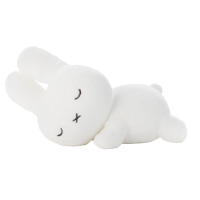
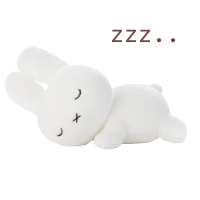
saving progress: main "journal" layout applied, forms css

Changed region(s): [[0.54, 0.12, 0.75, 0.21], [0.84, 0.18, 0.9, 0.21], [0.78, 0.18, 0.81, 0.21]]

diff --git a/index.html b/index.html
@@ -24,16 +24,17 @@
   <!-- blog content --> 
     <main>
     <div class="blog-posts">
-        <h2>blog posts</h2>
+        <h2>ramblings</h2>
         <section>
             <article class="post">
-                <img src="/images/image2.jpg" alt="a cartoon cat and bear in cold weather attire, eating dumplings">
+                <img src="/images/image2.jpg" alt="a cartoon cat and bear in cold weather attire, eating dumplings" class="right-floating">
                 <h3>it's getting colder!</h3>
                 <p>published: </<time datetime="2024-10-10">10/10/24</time></p> 
                 <p><address class="author"><a rel="author" href="/index.html">jessica nguyen</a></address></p>
                 <p>here in michigan, it's finally been starting to get cold! personally, i have never been a fan of hot weather; i hate the feeling of sweat and just being in an indefinite state of being hot. you can shed layer after layer, but the heat will still reach you; whereas if you're cold, you can keep bundling until you're warm.</p>
-                <p>anyhow, it’s dipping into 60s! and amazingly, the sky has been super clear with the sun shining brightly (pinkies crossed). the air is crisp, the leaves are changing, i get to wear more of my clothes catered to colder weather, and festivities and scents signature to fall make everything feel 10x better! in previous years, i considered spring to be my favorite season due to the beauty of the flora blooming after being gone for months on end, and a sign of warmer weather to come. however, this period has been making me rethink my favorite season to be fall instead; if not, perhaps both spring and fall will be my favorite seasons together.</p>
-                <p>despite the beauty of fall, i feel like it brings a bittersweet feeling as well. knowing that after the leaves change, they leave behind barren husks of flora; the sun doesn't appear as often; and despite how beautiful winter snow is, it starts to become a problem and hinderance (in fact, last year's winter, my car battery went badfrom the cold and wouldn't turn on Q_Q). however, i try to focus on the present beauty and leave these emotions for later. let's enjoy this beautiful fall!</p>
+                <p>anyhow, it’s dipping into 60s! and amazingly, the sky has been super clear with the sun shining brightly (pinkies crossed). the air is crisp, the leaves are changing, i get to wear more of my clothes catered to colder weather, and festivities and scents signature to fall make everything feel 10x better! in previous years, i considered spring to be my favorite due to the beauty of the flora blooming after being gone for months on end, and a sign of warmer weather to come. however, this period has been making me rethink my favorite season to be fall instead; if not, perhaps both spring and fall will be my favorite seasons together... also, i just started getting worse allergies as years past, so spring has also taken a hit in my favorites for that, ahaha! (but also not ahaha because why are my allergies getting worse.. #sad)</p>
+                <p>despite the beauty of fall, i feel like it brings a bittersweet feeling as well. knowing that after the leaves change, they leave behind barren husks of flora; the sun doesn't appear as often; and despite how beautiful winter snow is, it starts to become a problem and hinderance (in fact, last year's winter, my car battery went bad from the cold and wouldn't turn on 😞 ... a very bad memory like it was just Very Not Good...). however, i try to focus on the present beauty and leave these emotions for later. let's enjoy this beautiful fall!</p>
+                <img src="/images/fallPic.png" alt="streetview of cars and autumn campus scenery" class="left-floating">
                 <table>
                     <tr>
                         <th>Date</th>
@@ -73,7 +74,7 @@
                 </table>
             </article>
             <article class="post">
-                <img src="/images/image1.jpg" alt="a cartoon bear laid on its side holding a chocolate-covered strawberry">
+                <img src="/images/image1.jpg" alt="a cartoon bear laid on its side holding a chocolate-covered strawberry" class="right-floating">
                 <h3>snacking on chocolate-covered strawberries</h3>
                 <p>published: </<time datetime="2024-10-10">10/10/24</time></p> 
                 <p><address class="author"><a rel="author" href="/index.html">jessica nguyen</a></address></p>

diff --git a/style.css b/style.css
@@ -2,7 +2,7 @@
 
 basic colors:
 - white: #fafafa
-- text (dark purple): #403744
+- text (dark brown): #714342
 - accent: #A64A66
 
 /* 
@@ -12,7 +12,7 @@ basic colors:
 
 
 html {
-    background: url("images/grid.png");
+    background: url("images/yayyyyy.png");
     font-family: Zen Maru Gothic, sans-serif;
     animation: fadeInAnimation ease 1s;
     animation-iteration-count: 1;
@@ -30,8 +30,9 @@ html {
 }
 
 img {
-    border: 9px solid transparent;
-    border-image: url(https://solaria.neocities.org/bits/darkgreylace.png) 17 round; 
+border-width: 10px;
+border-style:solid;
+border-image: url("images/border.png") 8 fill round;
 }
 
 body {
@@ -52,6 +53,7 @@ p, li {
     padding-left: 10%;
     padding-right: 10%;
     border-radius: 20px;
+    border: 2px dashed #908680;
 }
 
 
@@ -60,6 +62,7 @@ p, li {
 
 
 /* navigation bar stuff */
+
 .navigation {
     position: -webkit-sticky;
     position: sticky;
@@ -71,6 +74,7 @@ p, li {
     background-color: #fafafa;
     font-weight: 500;
     z-index: 99;
+    border-radius: 8px;
 }
 
 #jessica-link {
@@ -108,50 +112,42 @@ p, li {
 }
 
 /* index styling */
-.blog-posts {
-    margin-bottom: 25px;
-    padding-bottom: 25px;
-}
 
 .blog-posts section {
     display: flex;
     flex-basis: 0;
     margin-top: 1%;
     gap: 6%;
-    flex-direction: row;
+    flex-direction: column;
 }
 
 article.post {
     flex: 1;
-
+    margin-bottom: 4%;
 }
 
-article img {
-    width: 85%;
+article img.left-floating {
+    width: 45%;
     align-items: center;
+    float: left;
+    rotate: -2deg;
+    margin-top: 4%;
+    margin-right: 3%;
+    margin-bottom: 2%;
+    padding: 1%;
 }
 
-article p {
-    padding-right: 10%;
+article img.right-floating {
+    width: 45%;
+    align-items: center;
+    float: right;
+    rotate: 2deg;
+    margin-top: 4%;
+    margin-left: 3%;
+    margin-bottom: 2%;
+    padding: 1%;
+
 }
-
-/* this @media part and the 2 rules following it was made by chatgpt, helps with responsive design in smaller browser for blog posts */
-@media (max-width: 768px) {
-    .blog-posts section {
-        flex-direction: column; /* Change from row to column */
-        align-items: center; /* Center-align items */
-    }
-
-    article img {
-        width: 100%; /* Make images full-width within the container */
-        max-width: 400px; /* Limit max width */
-    }
-
-    article p {
-        padding-right: 0; /* Adjust padding */
-    }
-}
-
 
 a[rel="author"] {
     color: #A64A66; /* Set the color or any other styling you want */
@@ -165,6 +161,10 @@ table {
     padding: 3%;
     margin-top: 30px;
     background-color: #fafafa;
+    width: 40%;
+    position: relative;
+    left: 60px;
+    text-align: center;
 }
 
 td {
@@ -173,12 +173,12 @@ td {
 }
 
 
-
 /* about page */
 #image-container {
     float: left;
-    margin-right: 30px;
-    margin-bottom: 30px;
+    margin-right: 5%;
+    margin-bottom: 5%;
+    rotate: -2deg;
 }
 
 .interests {
@@ -194,6 +194,7 @@ td {
     animation-duration: 3s;
     animation-iteration-count: infinite;
     animation-timing-function: ease;
+    margin-left: 20%;
 }
 
 @keyframes hovering {
@@ -210,8 +211,60 @@ td {
     }
 }
 
+
+/* forms and stuff, code by w3schools */
+input[type=text], textarea {
+    border: 2px solid #908680;
+    border-radius: 4px;
+    width: 100%;
+    padding: 9px 10px;
+
+  }
+
+textarea {
+    height: 150px;
+    padding: 12px 20px;
+    box-sizing: border-box;
+    border: 2px solid #908680;
+    border-radius: 4px;
+    background-color: #fafafa;
+    resize: none;
+  }
+
+select {
+    width: 100%;
+    padding: 9px 10px;
+    border: 2px solid #908680;
+    border-radius: 4px;
+    background-color: #fafafa;
+}
+
+button {
+    background-color: #fbe8ec;
+    border: none;
+    color: #714342;
+    padding: 12px 20px;
+    text-decoration: none;
+    margin: 5px 2px;
+    cursor: pointer;
+    border-radius: 5px;
+  }
+
+
 /* footer styling */
 footer {
-    margin-top: 3%;
+    margin-top: 4%;
     padding-bottom: 30px;
 }
+
+
+/* .sticker1{
+    width: 200px;
+    height: 200px;
+    background: url(images/sleepyMiffy.png);
+    position: absolute;
+    z-index: 98;
+    right: 10%;
+    bottom: 0;
+
+} */

diff --git a/about.html b/about.html
@@ -21,36 +21,39 @@
         </ul>
     </nav>
     </div>
+<!-- about content -->
     <main>
         <section>
             <div class="main-about">
                 <div id="image-container"><img src="/images/cafe.jpg" alt=""></div>
                 <h2>hi! i'm jessica.</h2>
-                <p>welcome to my page! ٩(^ᗜ^ )و ´-</p>
+                <p>welcome to what's basically my journal! ٩(^ᗜ^ )و ´-</p>
                 <p>currently, i am a senior at michigan state university studying information science concentrating in human-centered technologies, with a minor in graphic design!</p>
                 <p>growing up, i always had a love for psychology and design. with these core passions of mine, i love the opportunity ui/ux presents in combining them into outcomes that make a meaningful and memorable impact on people's lives.</p>
                 <p>currently, i am working at the MSU Libraries as a student employee for their accessibility unit! i get to ensure that the online electronic resources are accessible using tools like screen readers, color contrast checkers, etc. in the past month, i just finished doing contract work for a student start-up called Notello as their ux/ui designer!</p>
             </div>
             <div class="interests">
             <h2>a little more about me..</h2>
+                <p>when it comes to MBTI, i have gotten infj and infp interchangably (although INFJ more frequently, but the P and J percentages are really close), and my zodiac sign is gemini! i love and enjoy so many hobbies!! i'm a big nerd honestly haha</p>
                 <p>some of my hobbies include:</p>
                 <div id="miffy" alt=""></div>
                 <ul>
-                    <li>gaming</li>
-                    <li>crocheting</li>
-                    <li>mechanical keyboards</li>
-                    <li>fashion</li>
-                    <li>anime</li>
-                    <li>kpop</li>
-                    <li>vkei</li>
+                    <li>gaming (my favorite game of all time is probably Nier: Automata!)</li>
+                    <li>crocheting (not a pro, but i would say i'm intermediate!)</li>
+                    <li>mechanical keyboards (more so enjoying other people's collections.. it's an expensive hobby man..)</li>
+                    <li>fashion (i love the goth and gyaru subcultures!)</li>
+                    <li>anime (current favorite: dan da dan)</li>
+                    <li>kpop (favorite band: txt) </li>
+                    <li>vkei (favorite bands: plastic tree, exist trace)</li>
                     <li>cute things!</li>
                 </ul>
             </div>
         </section>
     </main> 
-        <footer>
-            <p>made with love and boba (づ๑•ᴗ•๑)づ♡</p>
-        </footer>
+<!-- footer -->
+    <footer>
+        <p>made with love and boba (づ๑•ᴗ•๑)づ♡</p>
+    </footer>
 </div>
 </body>
 </html>

diff --git a/contact.html b/contact.html
@@ -21,34 +21,36 @@
         </ul>
     </nav>
     </div>
-    <section>
-            <h2>contact info.</h2>
-            <form>
-                <p>
-                    <label for="name">name:</label>
-                    <input type="text" id="name" name="name">
-                </p>
-                <p>
-                    <label for="email">email:</label>
-                    <input type="email" id="email" name="user_email">
-                </p>
-                <p>
-                    <label for="reason">reason for contact:</label>
-                    <select name="reason" id="reason">
-                        <option value="hello">saying hi</option>
-                        <option value="contract">looking for a contractor</option>
-                        <option value="interview">interested in an interview</option>
-                    </select>
-                </p>
-                <p>
-                    <label for="msg">message:</label>
-                    <textarea id="msg" name="user_message"></textarea>
-                </p>
-                <p class="button">
-                    <button type="submit">send your message!</button>
-                </p>
-            </form>
-    </section>
+    <main>
+        <section>
+                <h2>contact info.</h2>
+                <form>
+                    <p>
+                        <label for="name">name:</label>
+                        <input type="text" id="name" name="name">
+                    </p>
+                    <p>
+                        <label for="email">email:</label>
+                        <input type="text" id="email" name="user_email">
+                    </p>
+                    <p>
+                        <label for="reason">reason for contact:</label>
+                        <select name="reason" id="reason">
+                            <option value="hello">saying hi</option>
+                            <option value="contract">looking for a contractor</option>
+                            <option value="interview">interested in an interview</option>
+                        </select>
+                    </p>
+                    <p>
+                        <label for="msg">message:</label>
+                        <textarea id="msg" name="user_message"></textarea>
+                    </p>
+                    <p class="button">
+                        <button type="submit">send your message!</button>
+                    </p>
+                </form>
+        </section>
+    </main>
     <footer>
         <p>made with love and boba (づ๑•ᴗ•๑)づ♡</p>
     </footer>
